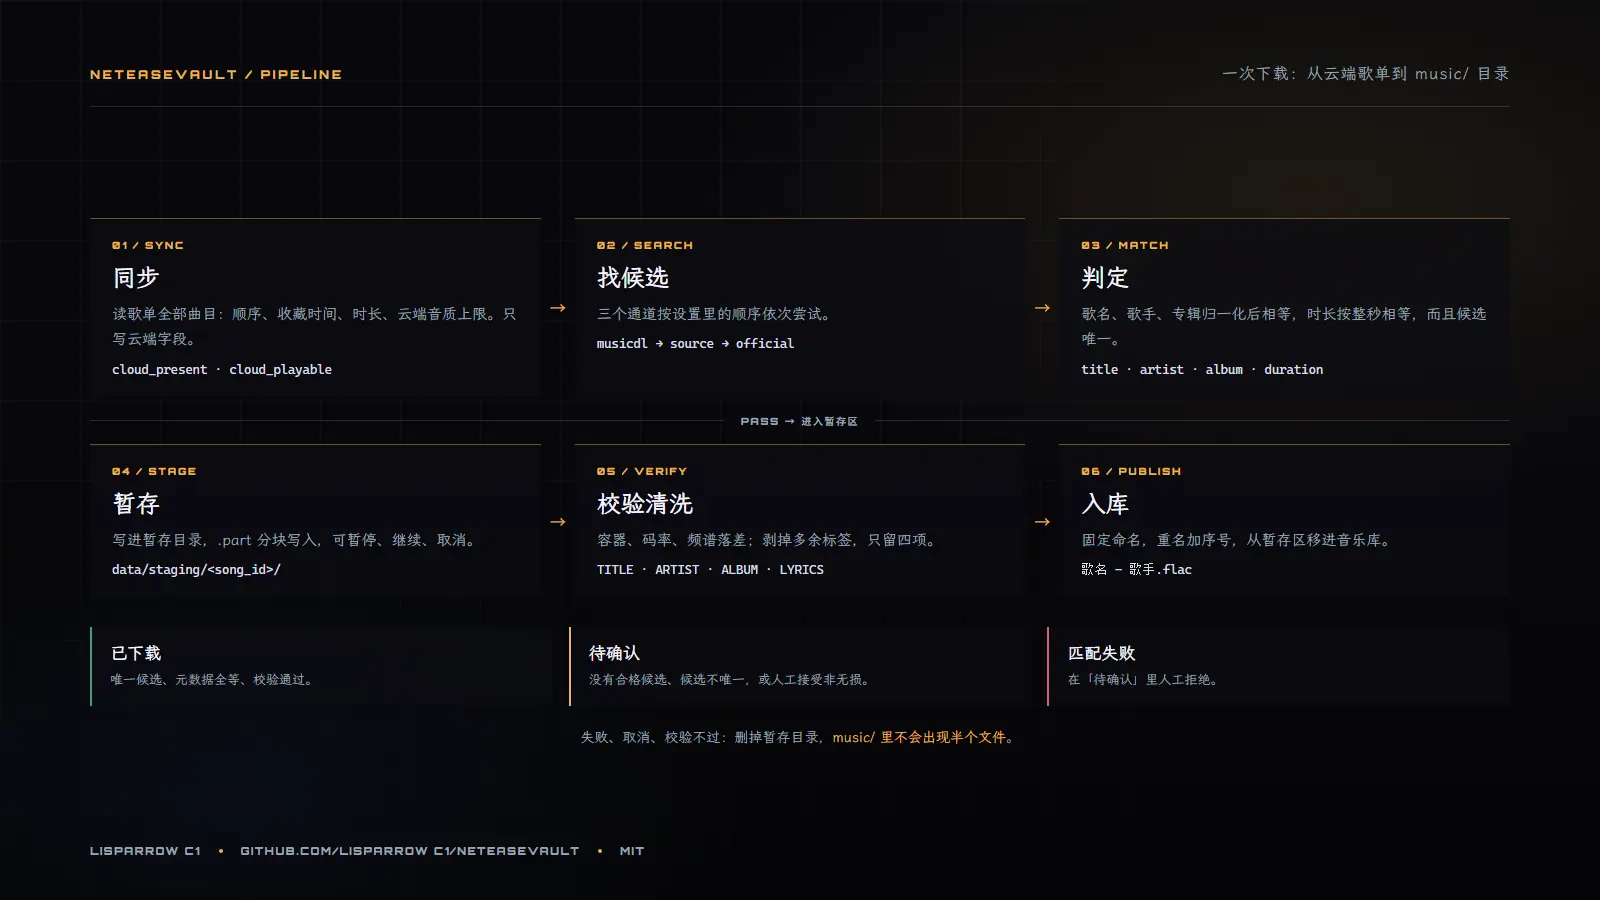
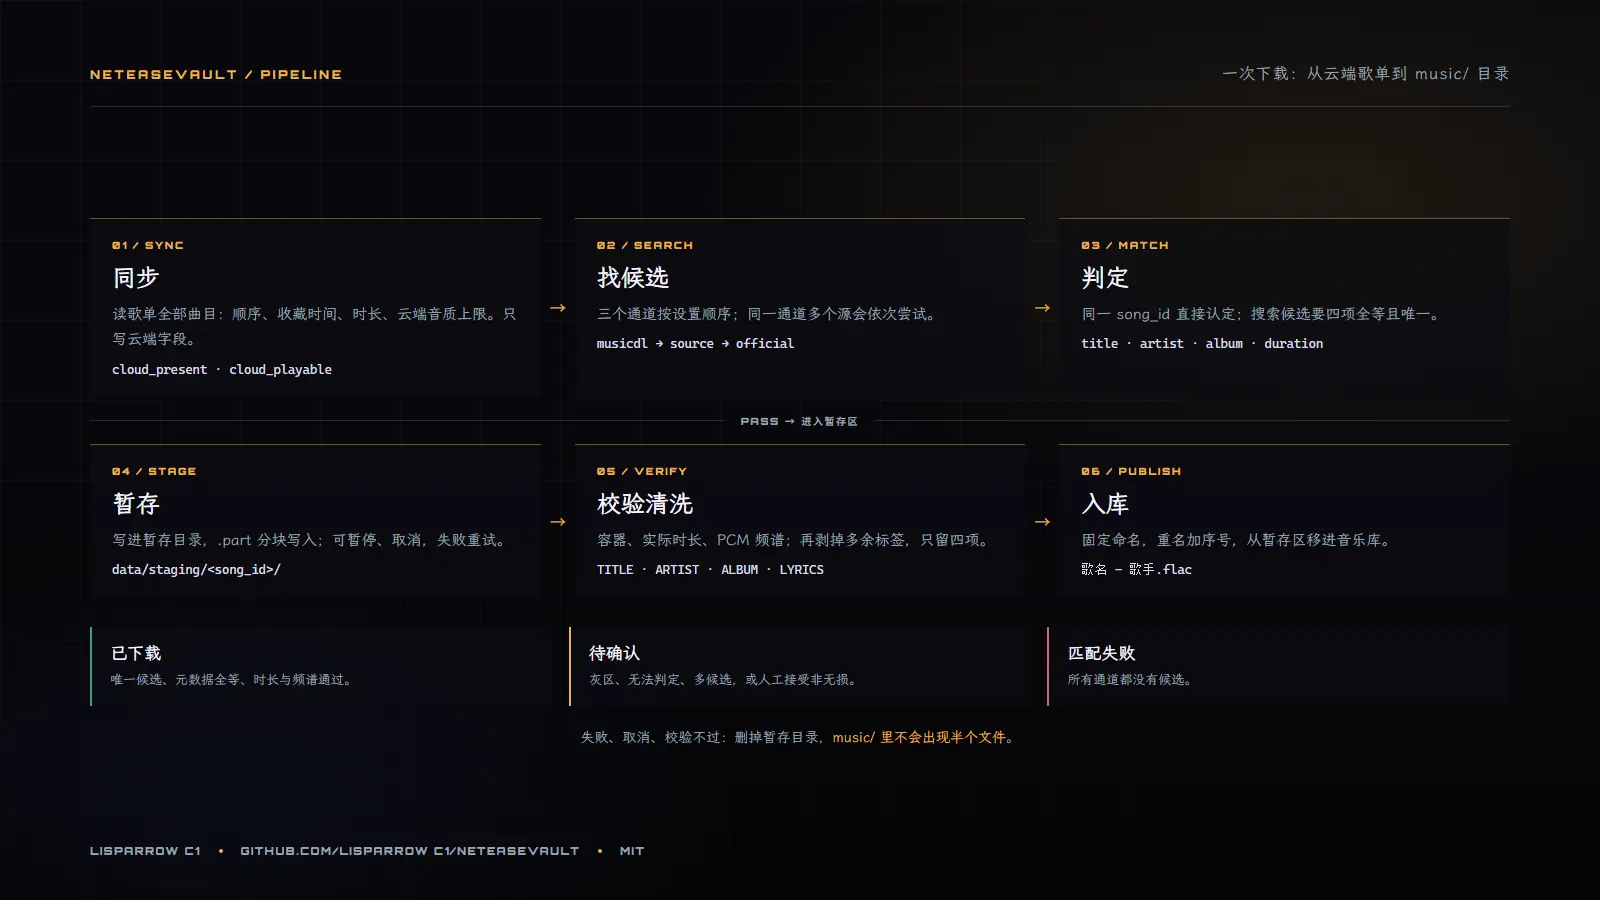
Update NeteaseVault post for 1.2.9

diff --git a/source/_posts/neteasevault.md b/source/_posts/neteasevault.md
@@ -39,21 +39,28 @@ tags:
 
 转人工不是失败。待确认列表会把每个候选的来源、标题、歌手、专辑、时长、音质、大小，以及没通过哪条规则一起列出来；可以试听，也可以指定其中一条入库。自动流程只接受无损，320K 这类必须人工点头才进得了库。
 
-## 验真：不信后缀
+## 验真：解码之后再看
 
-判断一个文件是不是真无损，分三层：
+扩展名和码率都不够。文件落进暂存区后，程序会解码一段真实 PCM——取中段 60 秒，避开开头和结尾——做 FFT，拿三样东西：
 
-1. **容器嗅探**：只读文件头，不认扩展名。声明是无损、实际却是 MP3 帧的，直接判假。
-2. **码率下限**：无损容器的平均码率低于 400 kbps，基本可以确定是转码后重新封装的。
-3. **高频落差**：真无损的高频会自然衰减，转码文件在 20 kHz 以上往往是空的。判据取 18–20 kHz 与 20–22 kHz 两个频段的平均能量差。
+- **频谱截止**：从 500 Hz 往上一段段算能量，找最后一个还在峰值 80 dB 以内的频段。
+- **高频断崖**：在 14–22 kHz 之间，相邻 500 Hz 频段的最大落差。
+- **平均码率**：用文件大小和时长算出来的实际码率。
 
-| 落差 | 结果 |
+然后按下表判定：
+
+| 信号 | 结果 |
 | --- | --- |
-| 大于 -30 dB | 通过 |
-| -30 至 -40 dB | 灰区，记录后放行 |
-| 小于 -40 dB | 判为转码，丢弃 |
+| 平均码率低于 400 kbps | 判假，丢弃 |
+| 平均码率 400–600 kbps | 灰区，转人工 |
+| 频谱截止低于 18 kHz | 判假，丢弃 |
+| 频谱截止 18–20 kHz | 灰区，转人工 |
+| 顶部八度出现 ≥ 40 dB 断崖 | 灰区，转人工 |
+| 其余 | 通过 |
 
-频谱只当辅助判据：只拦明确判假的文件，灰区放行但写进日志；采样率不高于 44.1 kHz 时无法可靠判定，宁可记为「未知」，也不硬判通过。真正硬性的两道闸门是容器和码率。
+只有明确判假的会直接丢掉。灰区和无法判定都进「待确认」：不自动入库，也不直接扔，由人听过再决定；解码失败同样转人工，不会当作通过。人工接受非无损的 320K 文件时，不套用无损门槛。
+
+还有一道与真伪无关的闸门：文件的**实际时长**要和云端时长按整秒相等，不一致就拒绝。这是发现「下错歌」最快的方法。
 
 ## 三条轴，七个列表
 
@@ -79,35 +86,58 @@ tags:
 ![下载流水线](/img/projects/neteasevault-flow.webp)
 
 1. **同步**：按云端顺序读全部曲目，记录顺序、收藏时间、时长、云端音质上限、可播状态。
-2. **找候选**：按通道顺序搜索或解析，收集候选。
-3. **判定**：四道规则加唯一性。找不到合格候选的转「待确认」；在那里人工拒绝，才归入「匹配失败」。
-4. **下载到暂存区**：写到 `data/staging/<song_id>/`，`.part` 分块写入，支持暂停、继续、取消；取消时临时目录一并删掉。
-5. **探测**：按文件头识别容器，读出采样率、时长、码率，再做假无损判定。
+2. **找候选**：严格按设置里的通道顺序搜索或解析。同一首歌在一个通道里可能拿到多个候选，一个地址失效会自动换下一个，全部失败才走下一通道。
+3. **判定**：同一 `song_id` 直接认定；搜索候选要四项全等且唯一。不满足的候选会保留下来，最后一起进「待确认」。
+4. **下载到暂存区**：写到 `data/staging/<song_id>/`，`.part` 分块写入，支持暂停、继续、取消；失败按设置重试，并发和搜索/下载限速都可调。
+5. **校验**：容器嗅探、实际时长、PCM 频谱，三道都过才继续。
 6. **清洗**：剥掉文件头尾多余的标签：ID3v2 前缀、ID3v1 / APEv2 / Lyrics3；FLAC 只留 STREAMINFO 和标签块；标签只保留 `TITLE` / `ARTIST` / `ALBUM` / `LYRICS` 四项，歌词只留带时间戳的行。清洗完再解析一遍复核。
 7. **入库**：文件名固定为 `歌名 - 歌手.flac`，非法字符替换掉，重名加序号，然后移进 `music/`。
 
-失败的候选不会进 `music/`，暂存目录也会被清掉。
+结果分三种：
+
+- 所有通道都没有候选 → 「匹配失败」。
+- 有候选，但都卡在灰区、时长、非无损或唯一性上 → 「待确认」。
+- 通过全部校验 → 已下载，失败和取消都不会在 `music/` 里留下半成品。
+
+## 自定义源：导入与排序
+
+自定义源走 LX 的 `globalThis.lx` 协议：脚本只负责把歌曲 ID 换成播放地址。三条路都能用：
+
+- **手动导入**：选任意 `.js`，复制到 `data/engine/scripts`；能不能加载由引擎在列表里报告，不再检查脚本格式。
+- **自动获取**：从 `data/source_repos.json` 里配置的公开仓库发现脚本，校验 `@name`、`sources`、`lx` 初始化这些特征，写进临时目录，再用云端歌单里第一首未下载的歌逐个 `resolve`；只有真的解析出地址的脚本才会装成 `auto-*.js`。
+- **健康检查**：用同一首云端样本测所有已安装源，失败会写明原因。
+
+排好顺序很重要，因为下载就是按顺序试：
+
+- 「上移 / 下移」手动排，立即生效；
+- 「按测试结果排序」按成功优先、延迟升序、失败最后自动重排；
+- 勾选「检查后自动排序」，健康检查结束就自动重排。
+
+下载时某个源解析或下载失败会自动尝试同通道的下一个源；所有自定义源都失败，才继续下一个下载通道。通道顺序本身严格按设置执行，自定义源不会被强制排到最前面。
 
 ## 界面
 
 - 七个列表：网易歌单、已取消喜欢、失效、等待下载、待确认、匹配失败、已下载。
 - 每首歌的状态直接画在行里；下载时行尾显示百分比和一条细进度条。
-- 双击已下载的歌开始播放。点播放栏的歌名进入整页播放界面：左边封面，右边歌词，当前行高亮并跟着滚动。
+- 双击已下载的歌开始播放。播放页左栏是封面、标题和歌手/专辑，下面有「歌词 / 频谱」切换；右栏显示歌词或整首静态频谱，当前歌词行会高亮并跟着滚动。
+- 切到「频谱」后，左栏下方出现 300×55 的实时频谱：以水平中轴上下镜像，柱子紧贴，深色半透明；离开页面就停止。静态频谱使用 Spek 默认的 SoX 色阶（0 到 -120 dB），两者都在内存里算，不缓存、不落盘。
 - 播放队列独立存在，可以随时打开、清空；清空会同时停止播放。
 - 「刷新」重新扫描 `music/` 并核对数据库；「清空当前列表」只作用于定义这个列表的那一侧数据；「清除同步信息」保留本地文件，下次同步会自动重新关联。
-- 设置里可以把 `music/` 镜像到 U 盘，并生成一份相对路径的 `我喜欢的音乐.m3u8`。
+- 设置里的缓存页可以逐项清理：封面、下载暂存、临时文件、musicdl 输出、自动获取的音源；「全部清除」不会动音乐库、数据库、凭证和配置。
+- 设置里还可以把 `music/` 镜像到 U 盘，并生成一份相对路径的 `我喜欢的音乐.m3u8`。
 
 ## 第一次用
 
-1. 从 Release 下载单个 exe，放进任意目录，双击运行。
-2. 点左上角账户卡 → 「重新登录」，粘贴 Cookie（获取方法见下一节）。
-3. 点「同步」，把「我喜欢的音乐」读进本地。
-4. 切到「等待下载」，点「下载」；不选歌就是下载整个列表。
-5. 下载完的文件在 `music/` 里，双击列表行就能播放。
+1. 到 Release 下载 `NeteaseVault-<版本号>-Setup.exe`，双击安装，选安装目录（默认是「当前目录\NeteaseVault」）。
+2. 安装后整个目录可以搬走；删除目录就是卸载。升级只覆盖程序文件，`music/` 和 `data/` 里的个人数据会保留。
+3. 打开程序，点左上角账户卡 → 「重新登录」，粘贴 Cookie（获取方法见下一节）。
+4. 点「同步」，把「我喜欢的音乐」读进本地。
+5. 切到「等待下载」，点「下载」；不选歌就是下载整个列表。
+6. 下载完的文件在 `music/` 里，双击列表行就能播放。
 
 ## 账户与构建
 
-扫码登录已被网易关闭（服务端返回 8821），现在只有 Cookie：登录 music.163.com，F12 → Application → Cookies，复制 `MUSIC_U`。程序能解析整段请求头、分号列表和 JSON 三种粘贴形态，保存前会验证并显示昵称和 UID；凭证用 Windows DPAPI 加密，换个 Windows 账户读不出来。
+当前版本 1.2.9。扫码登录已被网易关闭（服务端返回 8821），现在只有 Cookie：登录 music.163.com，F12 → Application → Cookies，复制 `MUSIC_U`。程序能解析整段请求头、分号列表和 JSON 三种粘贴形态，保存前会验证并显示昵称和 UID；凭证用 Windows DPAPI 加密，换个 Windows 账户读不出来。
 
 从源码构建：
 
@@ -117,13 +147,16 @@ python -m venv .venv
 pwsh -NoProfile -File build\build.ps1
 ```
 
-产物是项目根目录下的单个 exe，约 150 MB。体积来自 Qt 运行时和内置的 Node（自定义源要用）。程序是可搬的：首次运行只在同级目录创建 `music/` 和 `data/`，数据库、凭证、日志、封面缓存、暂存区都在 `data/` 里，不写系统目录。
+构建会先生成 onedir 程序，跑一次 `--selftest`，再编译绿色安装器到 `release\NeteaseVault-<版本号>-Setup.exe`。安装器约 156 MB，由源码构建，不手工拼包。
+
+装好后的目录只有三样：`NeteaseVault.exe`、`data/`、`music/`。`data/` 里同时放运行库、引擎、证书、数据库、凭证、配置、日志、缓存、暂存和自定义源脚本；`music/` 只放最终的歌。没有 `_internal`，不写注册表，不写 `%AppData%`。
 
 ## 边界
 
+- 只支持 Windows 10/11。
 - 只归档「我喜欢的音乐」一个歌单；不做云端上传，也不能编辑歌单。
-- 不内置任何音源密钥或账号。自定义源脚本要自己准备、自己导入，脚本行为不由程序保证。
-- 目前只提供 Windows 版。
+- 不内置任何音源密钥或账号。自定义源要自己导入或自动获取，来源是公开第三方仓库，可用性不由程序保证，失效是常态。
+- 假无损检测是启发式判断，不保证识别所有转码；灰区和无法判定都交给人。
 - 网易的接口和风控随时可能变，同步或下载失效属于正常损耗，不是承诺。
 
 ## 链接
